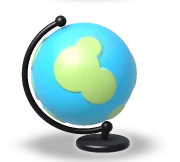
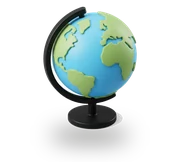
core: refazer o globo do Sobre como still com balanço discreto de 4 graus
O globo SDF girando no eixo ao lado do título "Idioma" puxava o olho. Entra
um still 3D novo (globo de mesa simples: oceano azul, continentes verdes,
pé preto) recortado e animado por lava_icons.py só com rock(t, 4°), sem
sobe-desce nem giro; 48 quadros, WebP 88, 118 KB (antes 174 KB). A cena
SDF Globe sai de lava_sdf_icons.py, que ninguém mais usava.

diff --git a/bingo_core/lib/src/ui/bingo_lava_icon.dart b/bingo_core/lib/src/ui/bingo_lava_icon.dart
@@ -29,7 +29,7 @@ enum BingoLavaIcon {
   /// Livro aberto com uma página virando (título "Como jogar" do Sobre).
   book('open_book'),
 
-  /// Globo terrestre girando no eixo (seletor de idioma do Sobre).
+  /// Globo terrestre de mesa que balança de leve (seletor de idioma do Sobre).
   globe('globe'),
 
   /// Roteador Wi-Fi com bolas de bingo (cartão da criação de sala).

diff --git a/bingo_core/tool/lava_sdf_icons.py b/bingo_core/tool/lava_sdf_icons.py
@@ -1,15 +1,17 @@
 """Ícones Lava procedurais do Bingo (ray marcher SDF de `lava_flutter/tool/lava_sdf.py`).
 
 Cada cena é um objeto 3D de verdade, então ele pode GIRAR no próprio eixo, virar uma página ou
-rolar um dado - coisa que o still + balanço de `lava_icons.py` não faz. Formas gordas e poucas
+rolar um dado - coisa que o still + balanço de `lava_icons.py` não faz. O globo do Sobre e o balão
+de ajuda já passaram por aqui e saíram: o globo voltou ao still com um balanço discreto (girar no
+canto de um título distraía) e o botão de ajuda ficou estático. Formas gordas e poucas
 (os ícones aparecem com 28 a 120 px), paleta do app.
 
     LAVA_TOOL=~/Developer/portifolio/packages/lava_flutter/tool
-    python3 tool/lava_sdf_icons.py globe --still 0.1 preview.png          # look-dev (~3 s)
-    python3 tool/lava_sdf_icons.py globe frames/globe                      # todos os quadros
-    python3 $LAVA_TOOL/openlava_encode.py assets/lava/globe --fps 24 --webp 88 frames/globe/frame_*.png
+    python3 tool/lava_sdf_icons.py open_book --still 0.1 preview.png      # look-dev (~3 s)
+    python3 tool/lava_sdf_icons.py open_book frames/open_book              # todos os quadros
+    python3 $LAVA_TOOL/openlava_encode.py assets/lava/open_book --fps 24 --webp 88 frames/open_book/frame_*.png
     python3 tool/lava_sdf_icons.py --oneshot assets/lava/dice              # manifest "loop": false
-    python3 tool/lava_sdf_icons.py --sheet frames/globe sheet.png 8        # folha de contato
+    python3 tool/lava_sdf_icons.py --sheet frames/open_book sheet.png 8    # folha de contato
     python3 tool/lava_sdf_icons.py --keys assets/lava all_keys.png         # primeiro quadro de cada bundle
 
 Loops: todo movimento é múltiplo inteiro de 2*pi*t, o último quadro emenda no primeiro. `dice` e
@@ -107,67 +109,6 @@ def lift(t):
 
 def const(colour, p):
     return np.broadcast_to(colour, p.shape).copy()
-
-
-# --------------------------------------------------------------------------------------------
-class Globe(Scene):
-    """Desk globe: blue sphere with bold green continents turning on its tilted axis, black
-    meridian arc and stand. One turn per loop."""
-
-    frames, fps = 48, 24
-    view_height, look_at, pitch = 3.15, (0.0, 1.32, 0.0), 14.0
-    bound_radius = 2.2
-    shadow_strength = 0.30
-    TILT = math.radians(23.0)
-    CENTRE = (-0.12, 1.46, 0.0)
-    ARC_R = 1.15
-    # (lat, lon, cap radius) in degrees; overlapping caps make each continent's silhouette
-    BLOBS = [(22, 0, 27), (-8, 16, 21), (38, 28, 15),
-             (-24, 118, 25), (2, 140, 17),
-             (42, -112, 23), (10, -96, 19), (-30, -82, 16),
-             (-60, 40, 13)]
-
-    def __init__(self):
-        dirs, cos_r = [], []
-        for lat, lon, r in self.BLOBS:
-            la, lo = math.radians(lat), math.radians(lon)
-            dirs.append([math.cos(la) * math.sin(lo), math.sin(la), math.cos(la) * math.cos(lo)])
-            cos_r.append(math.cos(math.radians(r)))
-        self.dirs, self.cos_r = np.array(dirs, F), np.array(cos_r, F)
-        self.materials = (
-            Material(self.surface, spec=0.45, shininess=40.0, rim=0.22),
-            Material(INK, spec=0.5, shininess=40.0, rim=0.12),
-        )
-
-    def frame(self, p):
-        return rot_z(p - np.asarray(self.CENTRE, F), -self.TILT)
-
-    def land(self, q, t):
-        """0..1 land mask from the direction of q in the turning sphere's frame."""
-        d = sdf.rot_y(q, -TAU * t)
-        d = d / np.maximum(sdf.length(d)[:, None], 1e-6)
-        dots = d @ self.dirs.T
-        k = sdf.smoothstep(self.cos_r[None] - 0.012, self.cos_r[None] + 0.012, dots)
-        return k.max(1)
-
-    def parts(self, p, t):
-        q = self.frame(p)
-        globe = sdf.sd_sphere(q, v3(0, 0, 0), 1.0) - 0.03 * self.land(q, t)
-        arc = sd_torus_z(q, v3(0, 0, 0), self.ARC_R, 0.055)
-        arc = np.maximum(arc, q[:, 0] - 0.0)
-        knobs = sd_spheres(q, np.array([[0, self.ARC_R, 0], [0, -self.ARC_R, 0]], F), np.full(2, 0.11, F))
-        foot = rot_z(np.array([[0.0, -self.ARC_R, 0.0]], F), self.TILT)[0] + np.asarray(self.CENTRE, F)
-        base_c = v3(foot[0] - 0.08, 0.0, 0.0)
-        stem = sdf.sd_capsule(p, foot, base_c + v3(0, 0.08, 0), 0.075)
-        base = sdf.sd_cylinder(p, base_c, 0.52, 0.15, rounding=0.06)
-        stand = np.minimum.reduce([arc, knobs, stem, base])
-        return [(globe, 0), (stand, 1)]
-
-    def surface(self, scene, p, n, t):
-        k = self.land(self.frame(p), t)
-        col = mix(const(BLUE, p), GREEN, k)
-        r = 2.0 * (n @ scene.eye)[:, None] * n - scene.eye
-        return col + (0.05 * sdf.smoothstep(0.35, 0.85, r[:, 1]))[:, None]
 
 
 # --------------------------------------------------------------------------------------------
@@ -457,8 +398,7 @@ class Pencil(Scene):
         return col
 
 
-SCENES = {"globe": Globe, "open_book": OpenBook, "bingo_cage": BingoCage, "players": Players, "dice": Dice,
-          "pencil": Pencil}
+SCENES = {"open_book": OpenBook, "bingo_cage": BingoCage, "players": Players, "dice": Dice, "pencil": Pencil}
 ONESHOT = {"dice", "pencil"}
 
 

diff --git a/bingo_core/tool/lava_icons.py b/bingo_core/tool/lava_icons.py
@@ -8,7 +8,7 @@ openlava_encode.py) sem alterá-lo: cada ícone é uma subclasse de `Subject` re
     python3 $LAVA_TOOL/openlava_encode.py assets/lava/bingo_ball --webp 90 frames/bingo_ball/frame_*.png
     python3 tool/lava_icons.py repack assets/lava/wifi_table frames/wifi_table   # 360x324 -> 270x243, 24 q @ 15 fps
 
-Ícones que precisam girar de verdade (globo, gaiola, dado...) são cenas 3D em `lava_sdf_icons.py`.
+Ícones que precisam girar de verdade (gaiola, livro, dado...) são cenas 3D em `lava_sdf_icons.py`.
 
 Paleta do app (neo-brutalista pastel): amarelo #FFEB3B, azul #4FC3F7, verde #AED581, creme #FFFDF5,
 contorno #121212. Movimentos são funções de sin(2*pi*t) para que metade dos quadros repita a outra
@@ -222,11 +222,12 @@ class OpenBook(BingoSubject):
 
 
 class Globe(BingoSubject):
-    """Globo de mesa: balanço mais amplo, como se girasse no eixo."""
+    """Globo de mesa ao lado do título "Idioma": só um balanço discreto de 4 graus, sem subir nem
+    girar (um globo rodando no canto de um título puxava o olho; 48 quadros, --webp 88)."""
     fill = 0.76
 
     def motion(self, t):
-        return rock(t, 9.0), 0.0, 0.0, 1 + 0.02 * math.sin(2 * math.pi * t), 1.0
+        return rock(t, 4.0), 0.0, 0.0, 1.0, 1.0
 
 
 class WifiRouter(BingoSubject):
